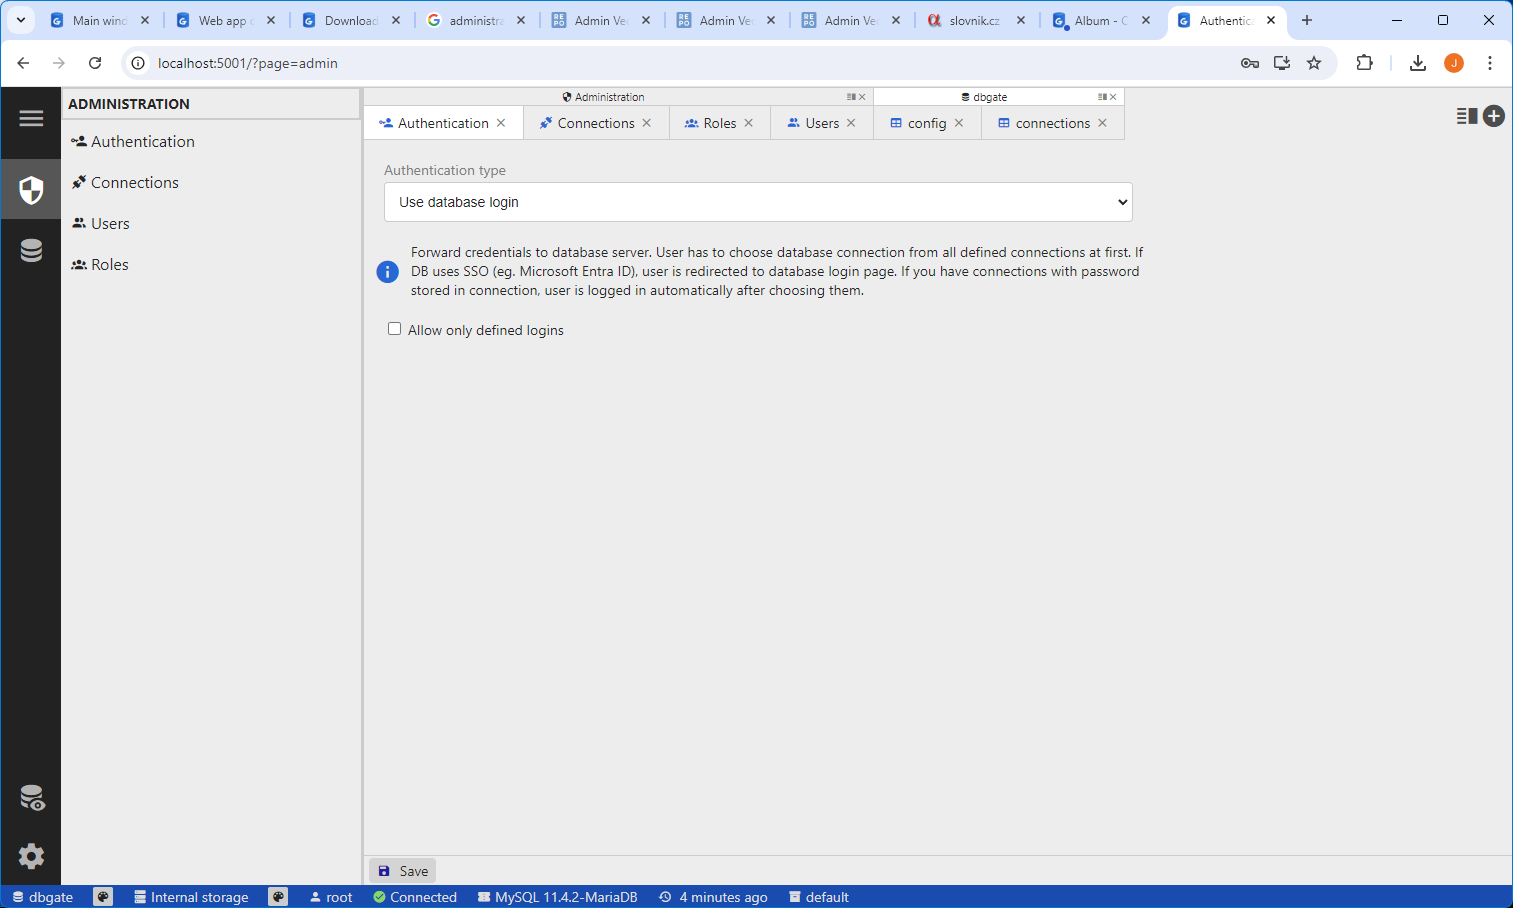
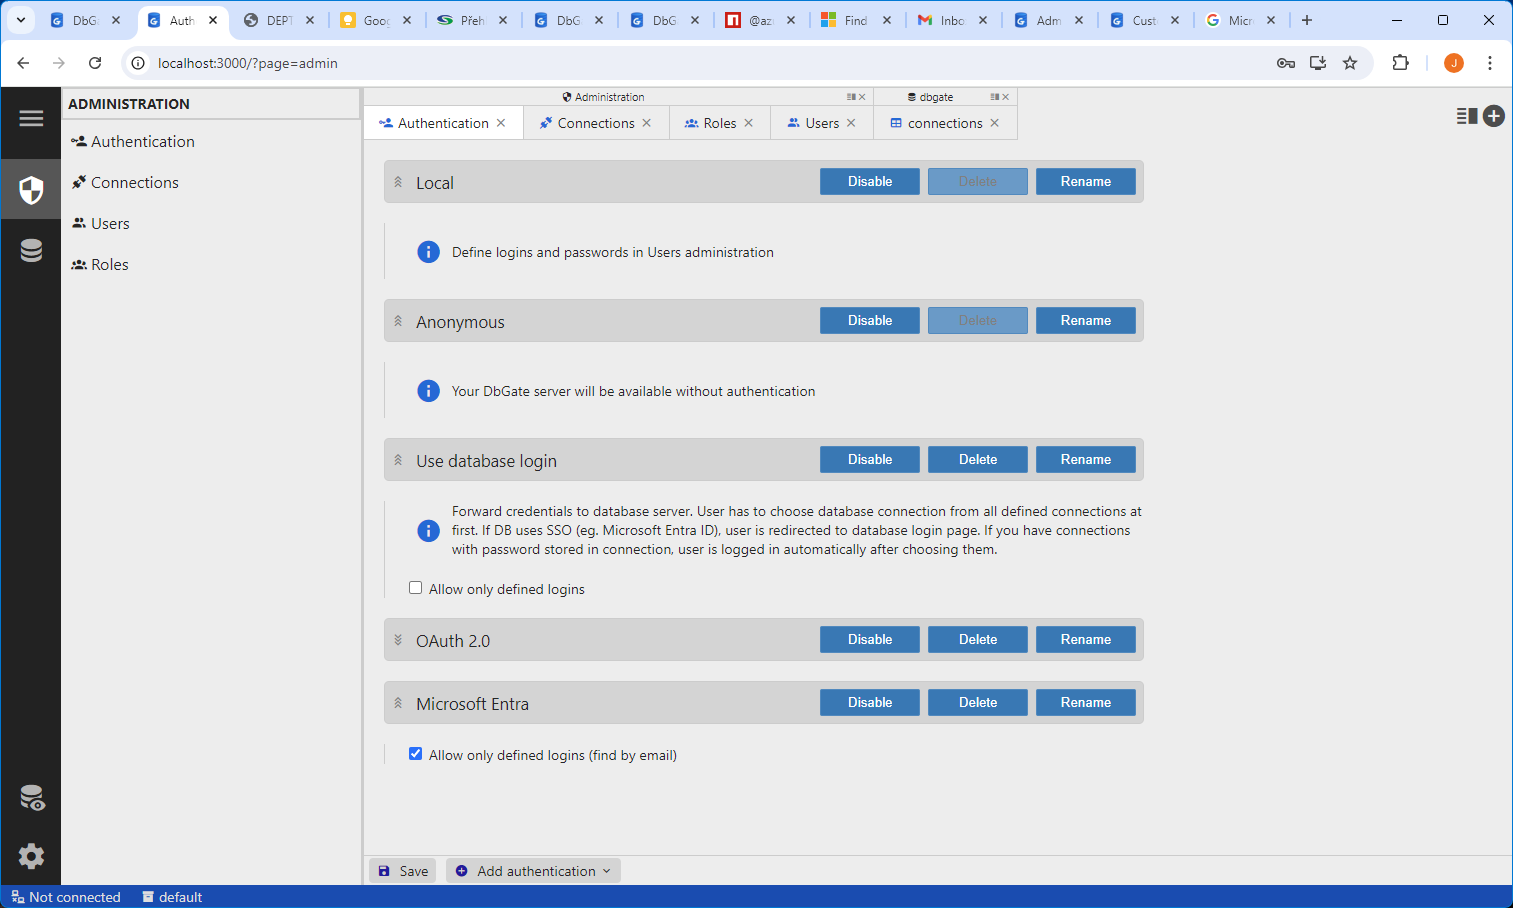
docs

diff --git a/_docs/env-variables.md b/_docs/env-variables.md
@@ -9,6 +9,22 @@ hide_hero: true
 # Environment variables
 Configuration via environment variables could be used in docker containers, also when using [npm package dbgate-serve](https://www.npmjs.com/package/dbgate-serve). NPM package supports .env files.
 
+## Premium vs Community edition
+Community (FOSS) edition uses only configuration from environment variables listed below. Premium edition uses database storage for settings with [administration UI](/features/administration.html), only few basic settings are configured with env variables.
+
+## Premium edition configuration
+These variables are available only in Premium edition.
+  * STORAGE_SERVER - database server (host name) for storage database
+  * STORAGE_USER - database user
+  * STORAGE_PASSWORD - database password
+  * STORAGE_PORT - database port
+  * STORAGE_DATABASE - storage database name
+  * STORAGE_ENGINE - engine used for storage database, eg  mysql@dbgate-plugin-mysql
+  * ADMIN_PASSWORD - password for administrator. Administration is available on URL https://dbgate_url/?page=admin
+  * DBGATE_LICENSE - license key for DbGate. Please contact sales@dbgate.eu for trial license.
+
+The following variables are available in both Community and Premium edition. However, in Premium edition, prefered way is to use storage database and use administration UI for configuration.
+
 ## Web & permission configuration
 * WEB_ROOT - if you need to run DbGate in virtual subdirectory (eg. for value /dbadmin , dbgate will be accessible on localhost:3000/dbadmin )
 * LOGIN , PASSWORD - credentials for accessing web app

diff --git a/_features/administration.md b/_features/administration.md
@@ -25,3 +25,4 @@ You could also configure several authentication methods:
   - Active Directory - web app is authorized against AD / LDAP, optionally logged user must be defined in user administration
   - OAuth 2.0 - web app is authorized with OAuth 2.0 protocol (eg. Google, Facebook, Keycloak), optionally logged user and (or) group must be defined in user (role) administration  
   - Database login - user selects DB server at first and then authentication against DB server is performed (with user/password or Microsoft Entra Azure auth)
+  - Microsoft Entra (former Azure Active Directory) - usable for Azure SQL databases
